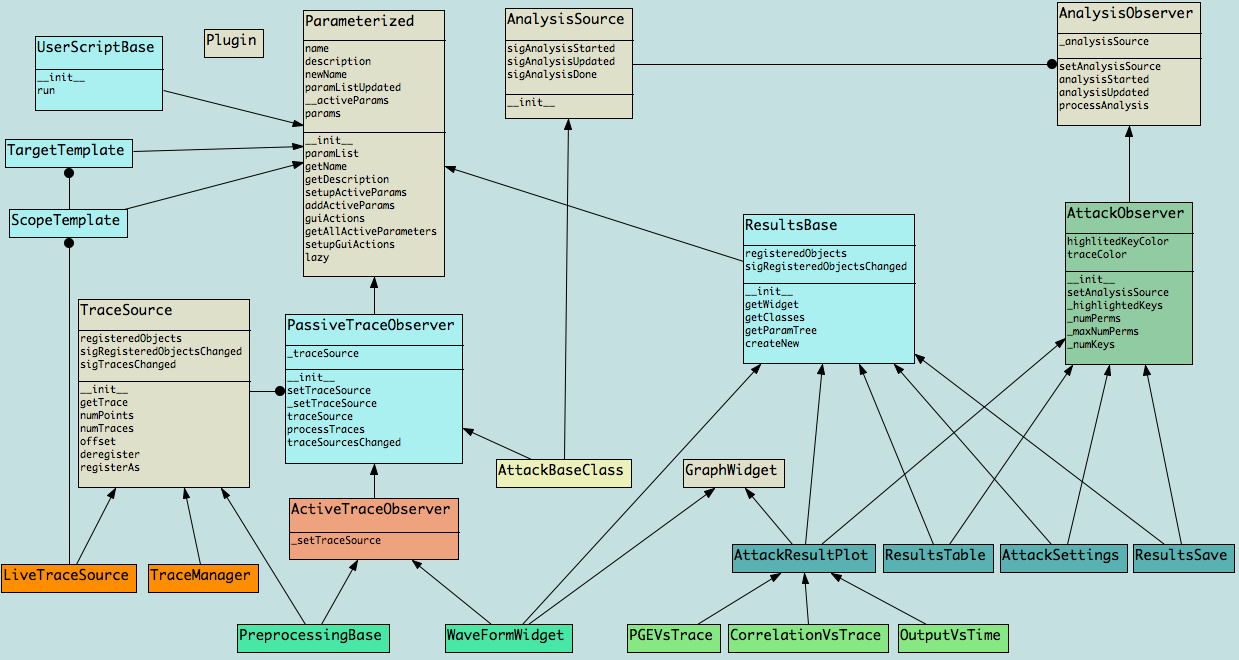
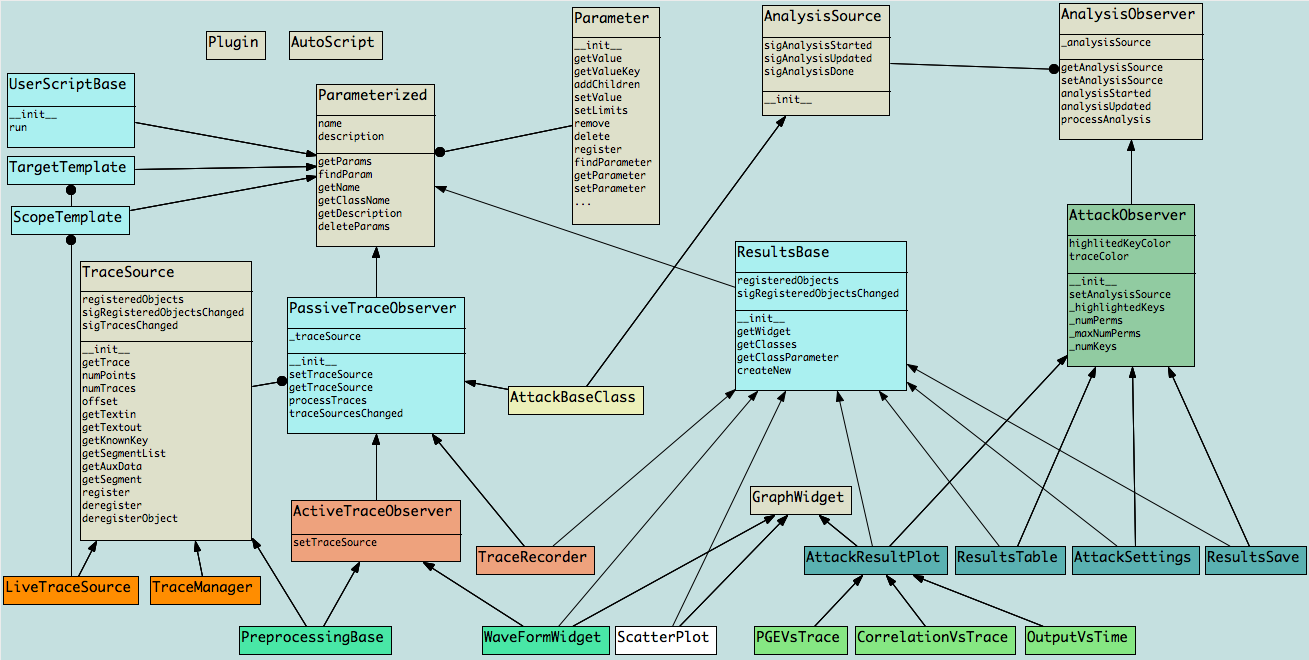
Updated Class Diagram. Fixed Copy PGE Data to Clipboard. Deleted some lambdas. Improved documentation.

diff --git a/software/chipwhisperer/capture/scopes/cwhardware/ChipWhispererExtra.py b/software/chipwhisperer/capture/scopes/cwhardware/ChipWhispererExtra.py
@@ -393,16 +393,15 @@ class CWExtraSettings(Parameterized):
     def setTriggerModule(self, module):
 
         #When using special modes, force rising edge & stop user from easily changing
-        if (module != self.MODULE_BASIC):
+        if module != self.MODULE_BASIC:
             Parameter.findParameter(['OpenADC', 'Trigger Setup', 'Mode']).setValue("rising edge", ignoreReadonly=True)
             Parameter.findParameter(['OpenADC', 'Trigger Setup', 'Mode']).setReadonly(True)
         else:
             Parameter.findParameter(['OpenADC', 'Trigger Setup', 'Mode']).setReadonly(False)
 
-
         resp = self.oa.sendMessage(CODE_READ, ADDR_TRIGMOD, Validate=False, maxResp=1)
-        resp[0] = resp[0] & 0xF8
-        resp[0] = resp[0] | module
+        resp[0] &= 0xF8
+        resp[0] |= module
         self.oa.sendMessage(CODE_WRITE, ADDR_TRIGMOD, resp)
 
     def getTriggerModule(self):
@@ -412,17 +411,14 @@ class CWExtraSettings(Parameterized):
     @setupSetParam("Trigger Out on FPA")
     def setTrigOut(self, enabled):
         resp = self.oa.sendMessage(CODE_READ, ADDR_TRIGMOD, Validate=False, maxResp=1)
-        resp[0] = resp[0] & 0xE7
+        resp[0] &= 0xE7
         if enabled:
-            resp[0] = resp[0] | 0x08
+            resp[0] |= 0x08
         self.oa.sendMessage(CODE_WRITE, ADDR_TRIGMOD, resp)
 
     def getTrigOut(self):
         resp = self.oa.sendMessage(CODE_READ, ADDR_TRIGMOD, Validate=False, maxResp=1)
-        if resp[0] & 0x08:
-            return True
-        else:
-            return False
+        return resp[0] & 0x08
 
 
 class CWPLLDriver(object):
@@ -462,9 +458,9 @@ class CWPLLDriver(object):
         self.writeByte(0x02, N & 0xFF)
 
         b = self.readByte(0x03)
-        b &= (1<<6)|(1<<5)
+        b &= (1 << 6)|(1 << 5)
         if bypass:
-            b |= 1<<7
+            b |= 1 << 7
 
         b |= (M >> 8)
         b |= ((N >> 8) & 0x0F) << 1
@@ -472,7 +468,7 @@ class CWPLLDriver(object):
         self.writeByte(0x03, b)
 
         b = self.readByte(0x06)
-        b &= ~(1<<7)
+        b &= ~(1 << 7)
         if highspeed:
             b |= 1 << 7
 
@@ -533,14 +529,13 @@ class CWPLLDriver(object):
         divsource = divider source, 0-5
         """
         outreg = 19 + outnum
-
         data = 0
 
         if enabled:
-            data |= 1<<3
+            data |= 1 << 3
 
         if inv:
-            data |= 1<<6
+            data |= 1 << 6
 
         if divsource > 5:
             raise ValueError("Invalid Divider Source Number (0-5 allowed): %d"%divsource)
@@ -601,15 +596,15 @@ class CWPLLDriver(object):
         d = bytearray([data])
         self.oa.sendMessage(CODE_WRITE, ADDR_I2CDATA, d, Validate=False)
 
-        d = bytearray([0x00, 0x69, 0x80 |  regaddr])
+        d = bytearray([0x00, 0x69, 0x80 | regaddr])
         self.oa.sendMessage(CODE_WRITE, ADDR_I2CSTATUS, d, Validate=False)
         time.sleep(0.05)
 
-        d = bytearray([0x04, 0x69, 0x80 |  regaddr])
+        d = bytearray([0x04, 0x69, 0x80 | regaddr])
         self.oa.sendMessage(CODE_WRITE, ADDR_I2CSTATUS, d, Validate=False)
         time.sleep(0.05)
 
-        d = bytearray([0x00, 0x69, 0x80 |  regaddr])
+        d = bytearray([0x00, 0x69, 0x80 | regaddr])
         self.oa.sendMessage(CODE_WRITE, ADDR_I2CSTATUS, d, Validate=False)
         time.sleep(0.05)
 

diff --git a/software/chipwhisperer/common/results/pgevstraceplot.py b/software/chipwhisperer/common/results/pgevstraceplot.py
@@ -43,13 +43,16 @@ class PGEVsTrace(AttackResultPlot, Plugin):
             {'name':'Clipboard Format', 'key':'fmt', 'type':'list', 'values':['CSV', 'MATLAB'], 'value':'CSV'}
         ])
 
-    def copyPGE(self, dontCopy=False, addPlotMatlab=True):
+    def copyPGE(self, _=None):
         """Copy the Partial Guessing Entropy (PGE) to clipboard for use in other programs"""
-        allpge = self.calculatePGE()
         cb = QClipboard()
+        cb.setText(self.getPGE())
+
+    def getPGE(self, addPlotMatlab=True):
+        """Return the  Partial Guessing Entropy (PGE) according to the specified format"""
+        allpge = self.calculatePGE()
 
         fmt = self.findParam('fmt').getValue()
-
         if fmt == 'CSV':
             spge = "Trace Number, "
             for i in range(0, self._numKeys()):
@@ -87,15 +90,13 @@ class PGEVsTrace(AttackResultPlot, Plugin):
                 spge += "title('Average Partial Guessing Entropy (PGE) via ChipWhisperer')\n"
                 spge += "legend("
                 for k in range(0, self._numKeys()):
-                    spge += "'Subkey %d'"%k
+                    spge += "'Subkey %d'" % k
                     if k != (self._numKeys()-1):
                         spge += ", "
                 spge += ")\n"
         else:
-            raise ValueError("Invalid fmt: %s"%fmt)
+            raise ValueError("Invalid fmt: %s" % fmt)
 
-        if dontCopy is False:
-            cb.setText(spge)
         return spge
 
     def calculatePGE(self):
@@ -122,8 +123,6 @@ class PGEVsTrace(AttackResultPlot, Plugin):
                     # print "%d "%j['trials'],
                 else:
                     j['pge'] = None
-
-        #print ""
 
         return allpge
 

diff --git a/software/chipwhisperer/capture/scopes/_base.py b/software/chipwhisperer/capture/scopes/_base.py
@@ -73,18 +73,16 @@ class ScopeTemplate(Parameterized, Plugin):
 
     def arm(self):
         pass
-        #NOTE - if reimplementing this, should always check for connection first
-        #if self.connectStatus.value() is False:
-        #    raise Exception("Scope \"" + self.getName() + "\" is not connected. Connect it first...")
-        #raise NotImplementedError("Scope \"" + self.getName() + "\" does not implement method " + self.__class__.__name__ + ".arm()")
+        # NOTE - if reimplementing this, should always check for connection first
+        # if self.connectStatus.value() is False:
+        #     raise Exception("Scope \"" + self.getName() + "\" is not connected. Connect it first...")
+        # raise NotImplementedError("Scope \"" + self.getName() + "\" does not implement method " + self.__class__.__name__ + ".arm()")
 
     def capture(self, update=True, NumberPoints=None):
-
-        #NOTE: If you have a waiting loop (waiting for arm), call the function util.updateUI() inside that loop to keep
-        #      the UI responsive:
+        # NOTE: If you have a waiting loop (waiting for arm), call the function util.updateUI() inside that loop to keep
+        #       the UI responsive:
         #
         # while self.done() == False:
         #     time.sleep(0.05)
         #     util.updateUI()
-        
         pass

diff --git a/software/chipwhisperer/analyzer/preprocessing/_base.py b/software/chipwhisperer/analyzer/preprocessing/_base.py
@@ -34,10 +34,9 @@ from chipwhisperer.common.utils.parameter import setupSetParam
 class PreprocessingBase(TraceSource, ActiveTraceObserver, AutoScript, Plugin):
     """
     Base Class for all preprocessing modules
-    Derivate Classes work like this:
-        - updateScript is used by the GUI to create the parameters list and generate the API scripts
+    Derivable Classes work like this:
+        - updateScript is called to update the scripts based on the current status of the object
         - the other methods are used by the API to apply the preprocessing filtering
-          You need to pass the getTraceSource reference in the constructor in order to apply the preprocessing step
     """
     _name = "None"
 
@@ -90,7 +89,7 @@ class PreprocessingBase(TraceSource, ActiveTraceObserver, AutoScript, Plugin):
         return self._traceSource.getKnownKey(n)
 
     def init(self):
-        """Do any initilization required once all traces are loaded"""
+        """Do any initialization required once all traces are loaded"""
         pass
 
     def getSegmentList(self):

diff --git a/software/chipwhisperer/common/results/attacksettings.py b/software/chipwhisperer/common/results/attacksettings.py
@@ -45,11 +45,11 @@ class AttackSettings(ResultsBase, AttackObserver, Plugin):
             {'name':'Override with', 'type':'str', 'key':'knownkey', 'value':"00 00 00 00 00 00 00 00 00 00 00 00 00 00 00 00", 'action':lambda p:self.setKnownKey(p.getValue())},
             {'name':'Highlighted key color', 'type':'color', 'value':"F00", 'action':lambda p: self.setHighlightedKeyColor(p.getValue())},
             {'name':'Trace color', 'type':'color', 'value':"0F0", 'action':lambda p: self.setTraceColor(p.getValue())},
-            {'name':'Redraw Widgets',  'type':'action', 'action':lambda _:self.updateAll()},
+            {'name':'Redraw Widgets', 'type':'action', 'action':self.updateAll},
         ])
         self.findParam('knownkey').hide()
 
-    def updateAll(self):
+    def updateAll(self, _=None):
         for i in self.registeredObjects.itervalues():
             if isinstance(i, AttackObserver):
                 i.processAnalysis()

diff --git a/software/chipwhisperer/common/utils/tracesource.py b/software/chipwhisperer/common/utils/tracesource.py
@@ -67,6 +67,18 @@ class TraceSource(object):
         """Get known-key number n"""
         raise NotImplementedError
 
+    def getSegmentList(self):
+        """Return a list of segments."""
+        raise NotImplementedError
+
+    def getAuxData(self, n, auxDic):
+        """Return data about a segment"""
+        raise NotImplementedError
+
+    def getSegment(self, n):
+        """Return the trace segment with the specified trace in the list with all enabled segments."""
+        raise NotImplementedError
+
     def register(self):
         self.registeredObjects[self.name] = self
         self.sigRegisteredObjectsChanged.emit()

diff --git a/software/chipwhisperer/common/results/scatterplot.py b/software/chipwhisperer/common/results/scatterplot.py
@@ -30,7 +30,7 @@ from chipwhisperer.common.utils.pluginmanager import Plugin
 from chipwhisperer.common.utils.parameter import Parameterized
 
 
-class Scatterplot(GraphWidget, ResultsBase, Parameterized, Plugin):
+class ScatterPlot(GraphWidget, ResultsBase, Parameterized, Plugin):
     _name = 'Scatter Plot'
     _description = 'Use cartesian coordinates to display values for a set of data'
 

diff --git a/software/chipwhisperer/common/results/tracerecorder.py b/software/chipwhisperer/common/results/tracerecorder.py
@@ -23,7 +23,6 @@
 #    You should have received a copy of the GNU General Public License
 #    along with chipwhisperer.  If not, see <http://www.gnu.org/licenses/>.
 #=================================================
-from datetime import datetime
 
 from .base import ResultsBase
 from chipwhisperer.common.api.CWCoreAPI import CWCoreAPI
